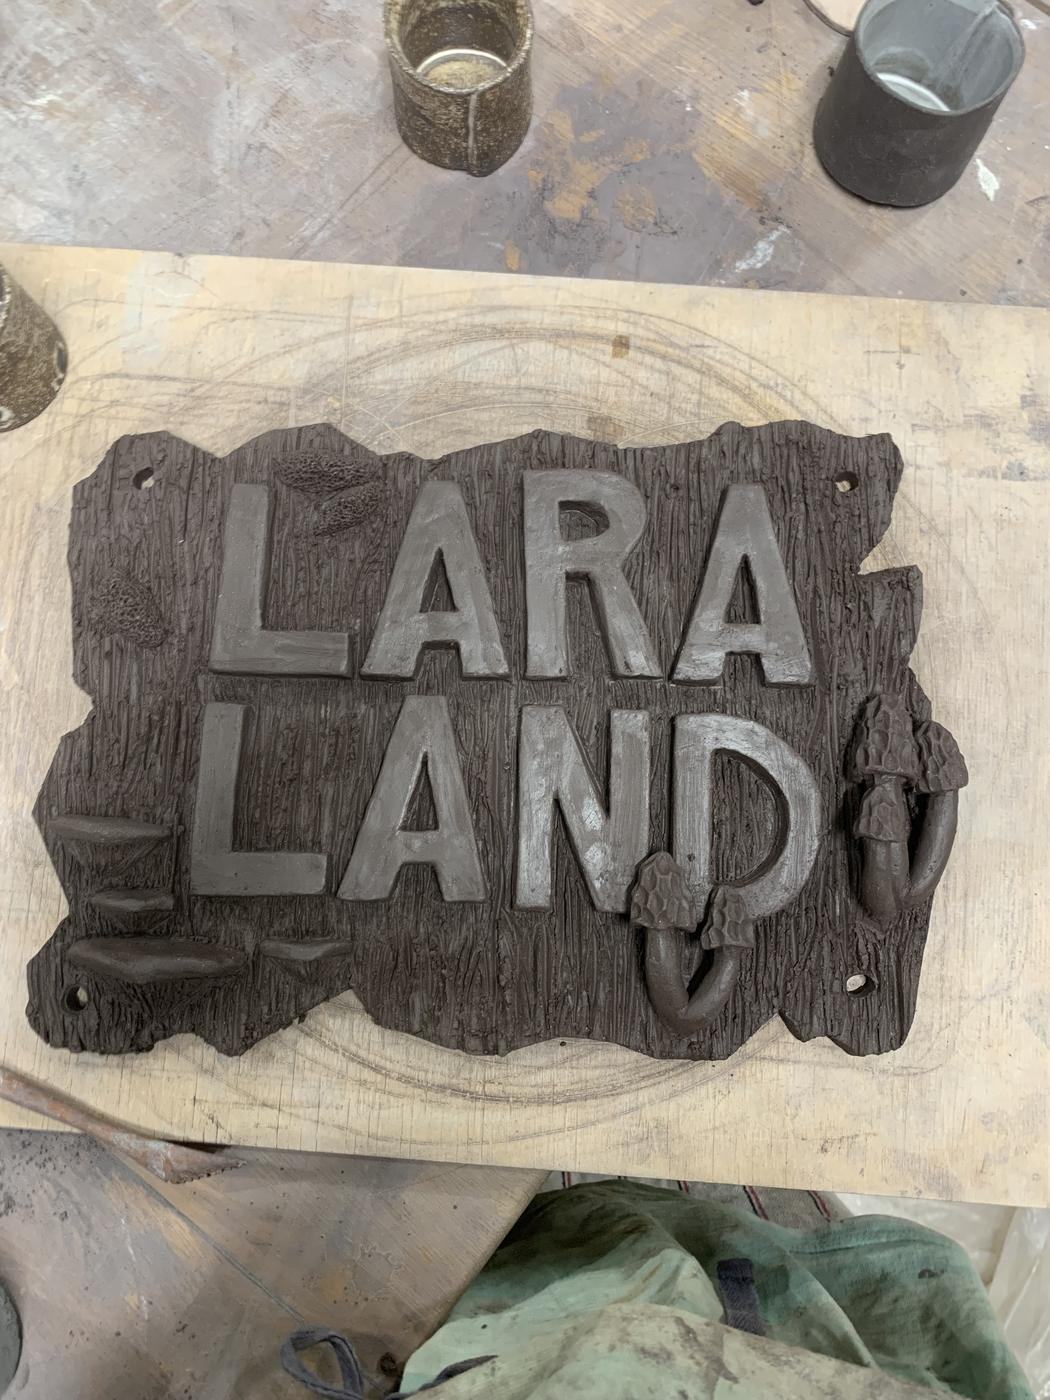
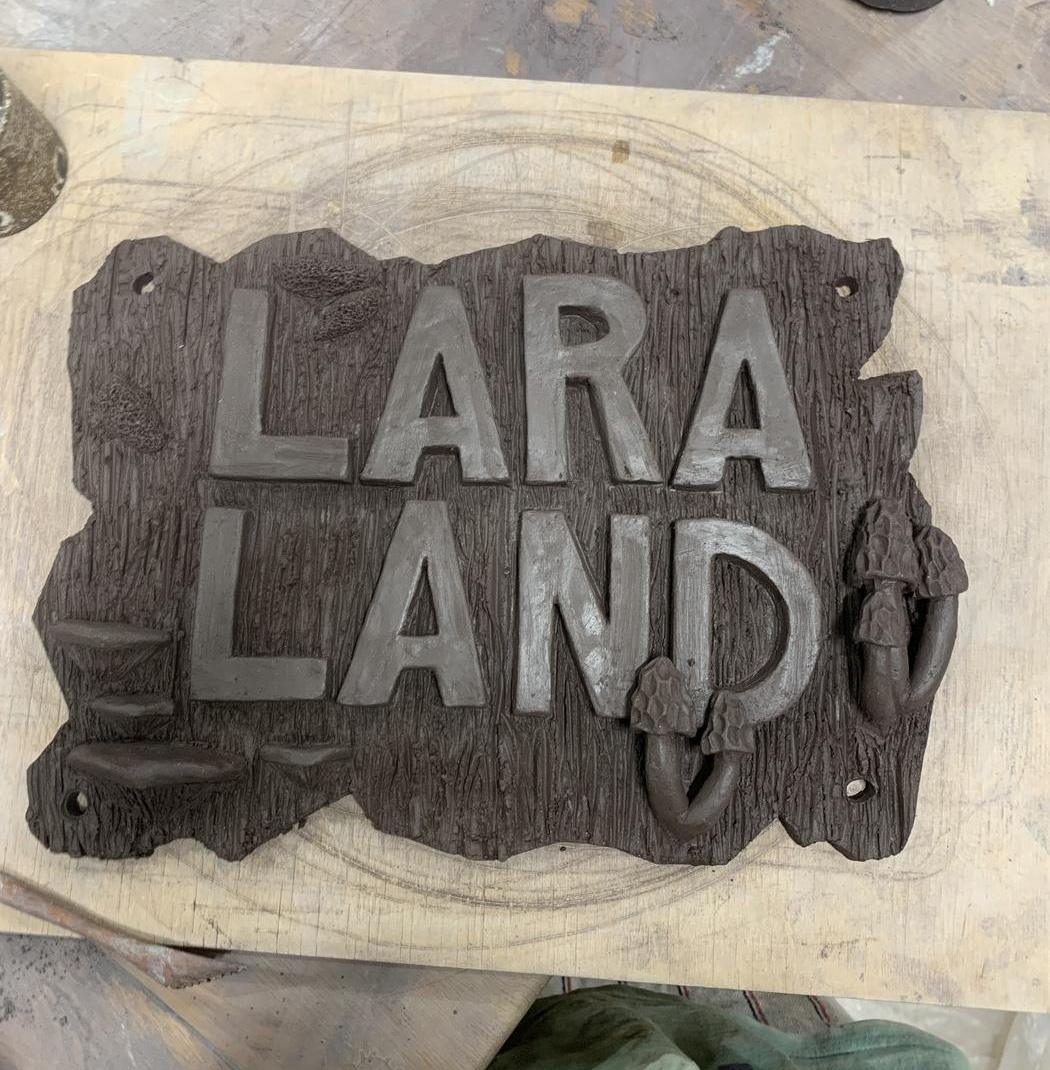
Use updated custom order images

diff --git a/termekek.html b/termekek.html
@@ -109,7 +109,7 @@
 
                     <div class="custom-order-flow">
                         <figure class="custom-order-float custom-order-float-left">
-                            <img src="images/products/egyedi-agas-taska.jpg" alt="Egyedi, ágakkal díszített kerámiatáska készítés közben" width="1050" height="1400" loading="lazy" decoding="async">
+                            <img src="images/products/egyedi-agas-taska.jpg" alt="Egyedi, ágakkal díszített kerámiatáska készítés közben" width="1050" height="1009" loading="lazy" decoding="async">
                         </figure>
                         <p>
                             A meglévő kollekció darabjai mellett egyedi elképzeléseket is szívesen megvalósítok.
@@ -124,7 +124,7 @@
 
                         <div class="custom-order-break" aria-hidden="true"></div>
                         <figure class="custom-order-float custom-order-float-right">
-                            <img src="images/products/egyedi-utcatabla.jpg" alt="Személyre szabott kerámia utcatábla készítés közben" width="1050" height="1400" loading="lazy" decoding="async">
+                            <img src="images/products/egyedi-utcatabla.jpg" alt="Személyre szabott kerámia utcatábla készítés közben" width="1050" height="1070" loading="lazy" decoding="async">
                         </figure>
                         <p>
                             Korábban már több személyre szabott megrendelést készítettem, így örömmel dolgozom olyan

diff --git a/css/style.css b/css/style.css
@@ -765,7 +765,7 @@ ul {
 
 .custom-order-float {
     width: 250px;
-    aspect-ratio: 3 / 4;
+    aspect-ratio: 1;
     overflow: hidden;
     border: 4px solid var(--brown-border);
     background: var(--brown);